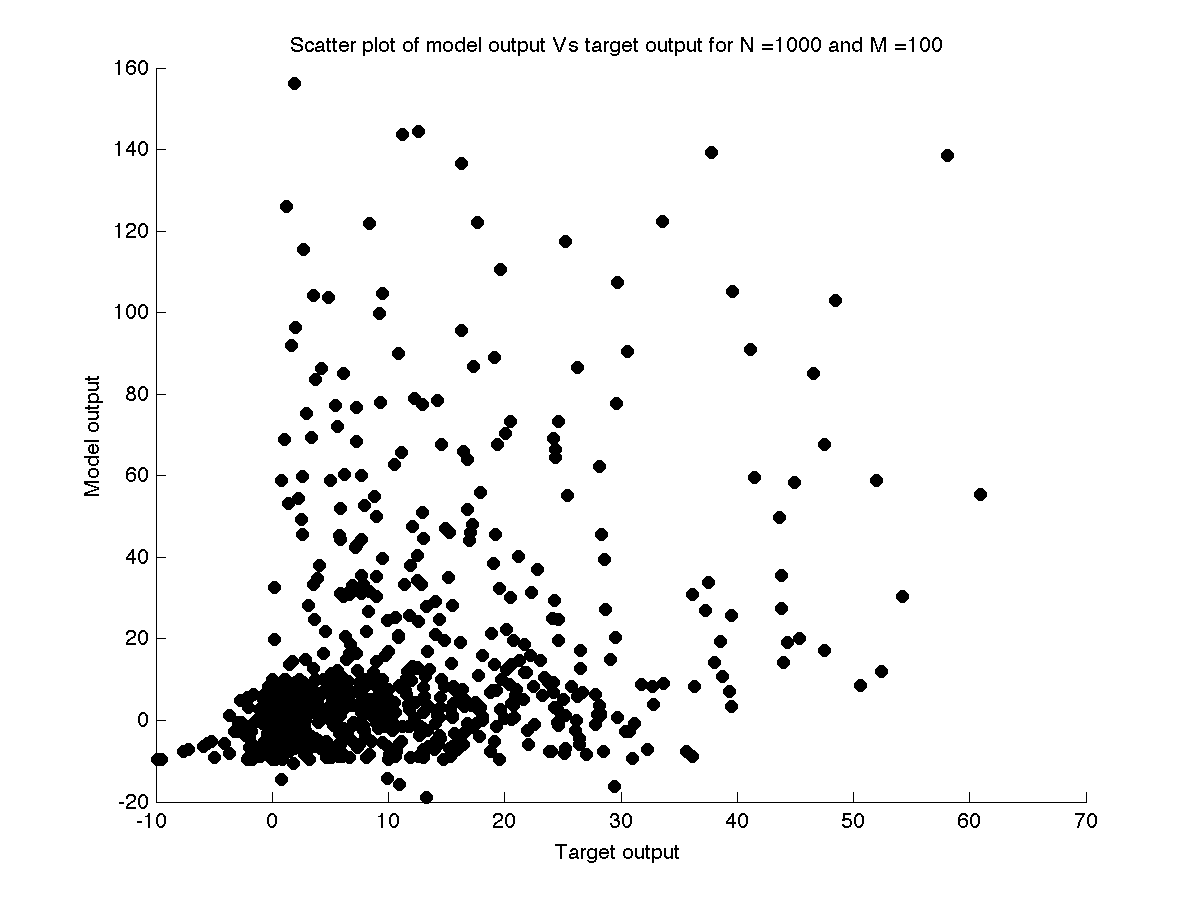
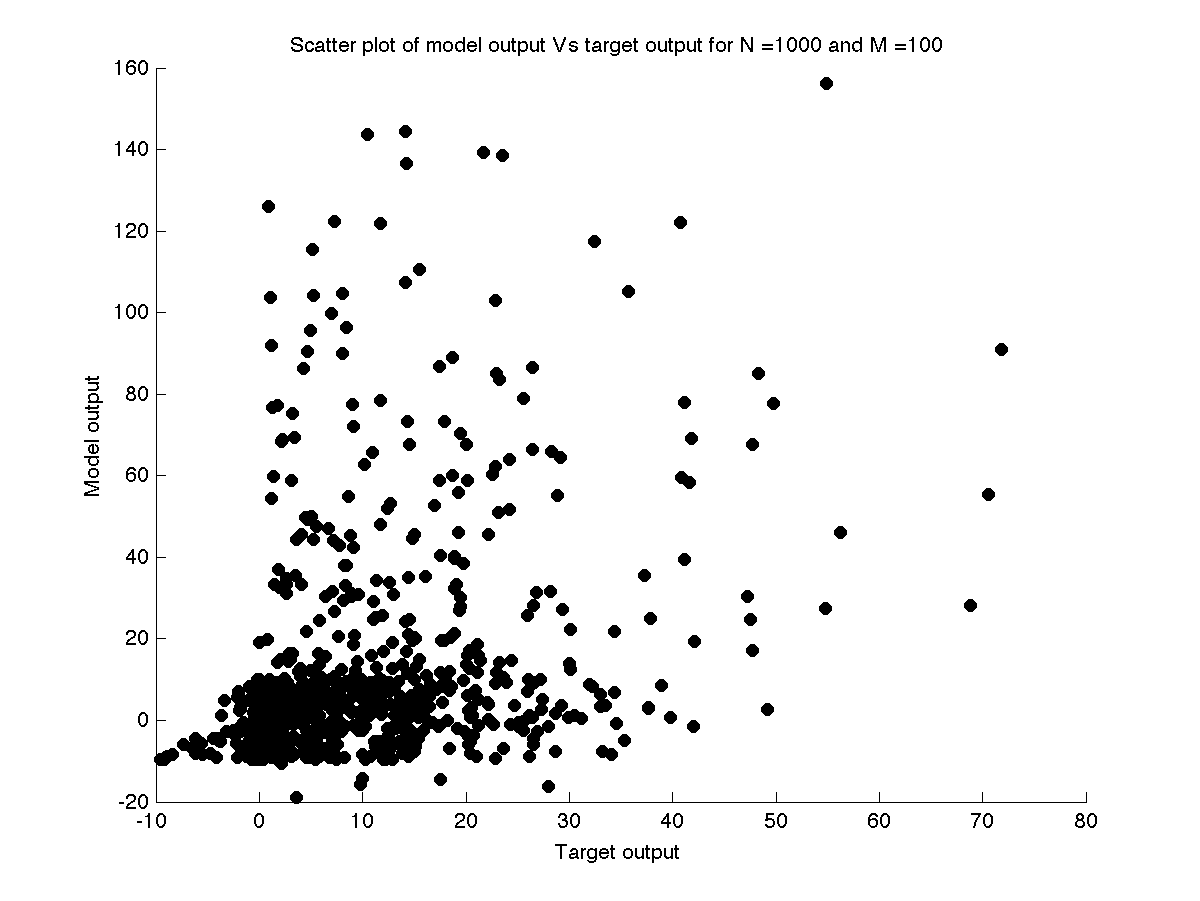
Added scatter plots for D2

diff --git a/Assignment_1/Code/Q2.m b/Assignment_1/Code/Q2.m
@@ -257,8 +257,8 @@ saveas(gcf,'Plots_2/RMS/RMS_lambda_100.png');
 
 % Scatter plots for varying N
 
-n_range = [1000];
-m_range = [300];
+n_range = [100,200,400,700,1000];
+m_range = [100];
 
 for i = 1:length(n_range)
     for j = 1:length(m_range)
@@ -284,8 +284,9 @@ end
 % Scatter plots for varying M
 
 %{
+
 n_range = [100];
-m_range = [100];
+m_range = [10,40,80,100];
 
 for i = 1:length(n_range)
     for j = 1:length(m_range)
